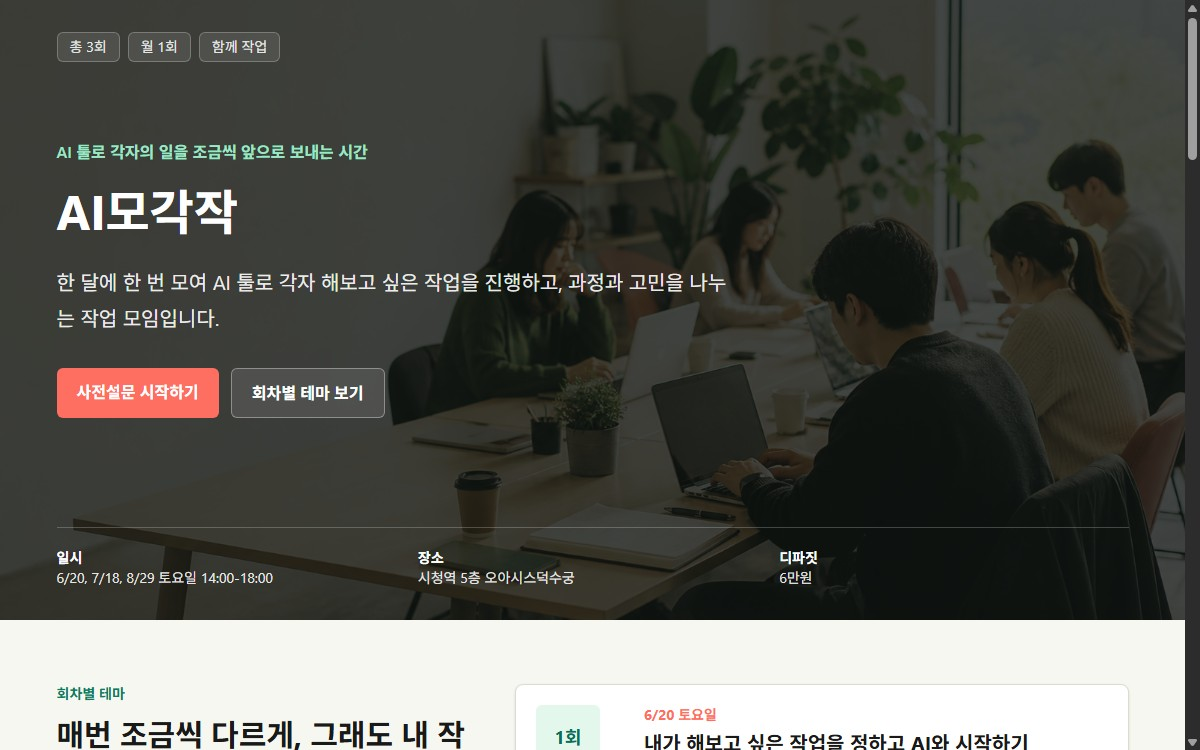
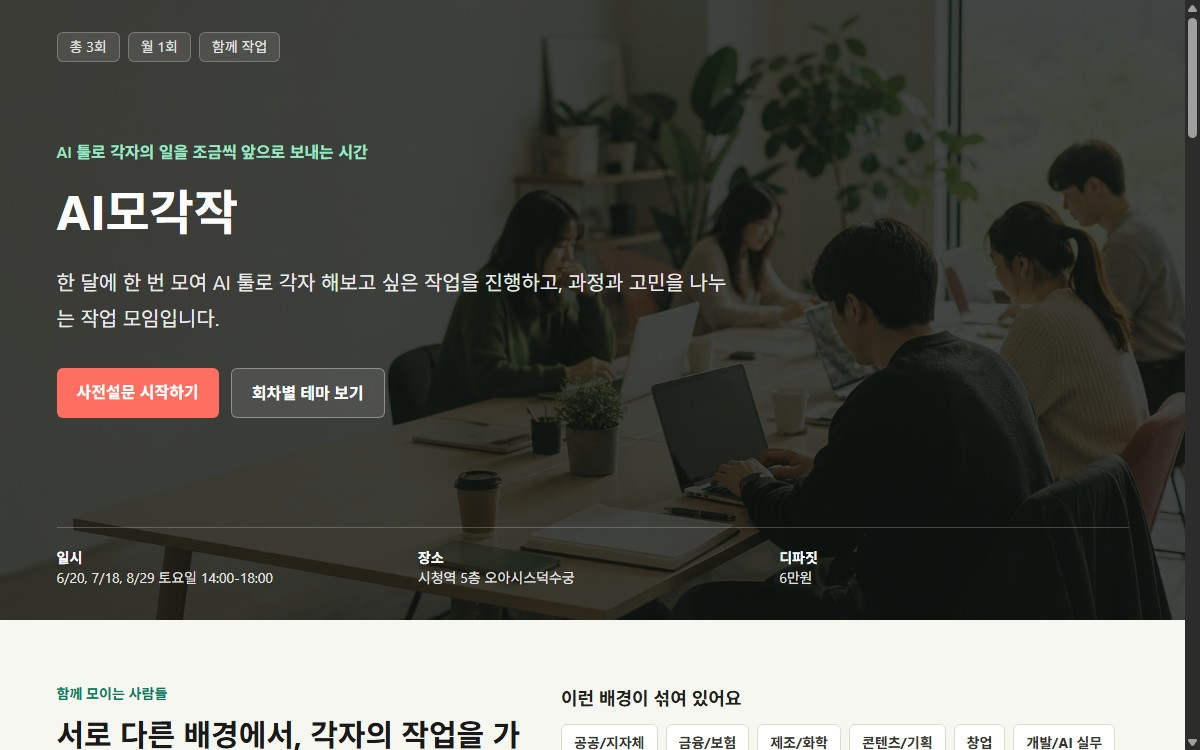
Refine AI Mogakjak member context

Changed region(s): [[0.0308, 0.92, 0.4317, 1.0], [0.4625, 0.92, 0.925, 1.0], [0.9867, 0.184, 1.0, 0.2147]]

diff --git a/app/page.tsx b/app/page.tsx
@@ -4,12 +4,12 @@ const sessions = [
   {
     date: "6/20",
     title: "내가 해보고 싶은 작업을 정하고 AI와 시작하기",
-    body: "막연한 아이디어를 오늘 해볼 수 있는 작업으로 좁히고, AI 툴을 어디에 붙이면 좋을지 함께 찾아봅니다.",
+    body: "막연한 아이디어를 오늘 해볼 수 있는 작업으로 좁히고, 각자의 일과 생활에 AI를 어디에 붙이면 좋을지 함께 찾아봅니다.",
   },
   {
     date: "7/18",
     title: "작업 중 막힌 지점 풀어보기",
-    body: "각자 해본 과정을 나누고, 프롬프트와 도구 선택을 조정하면서 병목을 같이 풀어봅니다.",
+    body: "각자 해본 과정을 나누고, 프롬프트와 도구 선택, 작업 범위, 실행 순서를 조정하면서 병목을 같이 풀어봅니다.",
   },
   {
     date: "8/29",
@@ -23,7 +23,27 @@ const rhythms = [
   "매 시간 10분씩 쉬면서 집중력을 다시 채웁니다.",
   "고민이나 막히는 지점은 바로 공유합니다. 같이 보면 의외로 빨리 풀릴 때가 많습니다.",
   "새로 발견한 툴, 프롬프트, 방식이 있다면 자유롭게 나눕니다.",
+  "서로 다른 업종과 맥락을 짧게 설명하고, 질문은 편하게 주고받습니다.",
   "각자의 작업 속도와 몰입 시간을 존중합니다.",
+];
+
+const participantContexts = [
+  "공공/지자체",
+  "금융/보험",
+  "제조/화학",
+  "콘텐츠/기획",
+  "창업",
+  "개발/AI 실무",
+  "마케팅/영업",
+];
+
+const motivationThemes = [
+  "미루던 AI 작업을 실제로 진척시키기",
+  "반복 업무를 자동화할 실마리 찾기",
+  "개인 프로젝트나 에이전트 고도화하기",
+  "프롬프트와 툴 사용법을 서로 공유하기",
+  "다른 사람들의 활용 방식을 가까이서 보기",
+  "혼자서는 어려운 몰입 환경과 데드라인 만들기",
 ];
 
 export default function Home() {
@@ -94,6 +114,58 @@ export default function Home() {
         </div>
       </section>
 
+      <section className="mx-auto max-w-6xl px-5 py-16 sm:px-8 lg:px-10">
+        <div className="grid gap-10 lg:grid-cols-[0.9fr_1.1fr]">
+          <div>
+            <p className="text-sm font-bold text-[#0c7b61]">
+              함께 모이는 사람들
+            </p>
+            <h2 className="mt-3 text-3xl font-bold leading-tight">
+              서로 다른 배경에서, 각자의 작업을 가져옵니다
+            </h2>
+            <p className="mt-5 text-base leading-8 text-[#4b4b45]">
+              공공, 금융/보험, 제조/화학, 콘텐츠/기획, 창업, 개발/AI 실무 등
+              다양한 맥락의 사람들이 모입니다. 중요한 건 같은 직무가 아니라,
+              각자 미뤄두었던 일을 AI와 함께 실제로 움직여보려는 마음입니다.
+            </p>
+          </div>
+
+          <div className="grid gap-5">
+            <div>
+              <h3 className="text-lg font-bold text-[#20201d]">
+                이런 배경이 섞여 있어요
+              </h3>
+              <div className="mt-3 flex flex-wrap gap-2">
+                {participantContexts.map((context) => (
+                  <span
+                    key={context}
+                    className="rounded-md border border-[#d9ddd0] bg-white px-3 py-2 text-sm font-bold text-[#34342f]"
+                  >
+                    {context}
+                  </span>
+                ))}
+              </div>
+            </div>
+
+            <div>
+              <h3 className="text-lg font-bold text-[#20201d]">
+                이런 마음으로 모였어요
+              </h3>
+              <ul className="mt-4 grid gap-3 sm:grid-cols-2">
+                {motivationThemes.map((theme) => (
+                  <li
+                    key={theme}
+                    className="rounded-md bg-[#f7f7f2] px-3 py-3 text-sm font-semibold leading-6 text-[#3b3b35]"
+                  >
+                    {theme}
+                  </li>
+                ))}
+              </ul>
+            </div>
+          </div>
+        </div>
+      </section>
+
       <section id="themes" className="mx-auto max-w-6xl px-5 py-16 sm:px-8 lg:px-10">
         <div className="grid gap-8 lg:grid-cols-[0.82fr_1.18fr]">
           <div>
@@ -103,8 +175,8 @@ export default function Home() {
             </h2>
             <p className="mt-5 text-base leading-8 text-[#4b4b45]">
               완성된 결과물을 가져오는 모임이 아니라, 하고 싶은 작업을
-              실제로 시도해보는 모임입니다. 서로의 과정과 고민을 보면서 AI를
-              내 일에 붙이는 감각을 함께 키웁니다.
+              실제로 시도해보는 모임입니다. 서로 다른 직장과 커뮤니티 맥락에서
+              나온 고민을 같이 보고, AI를 내 일에 붙이는 감각을 함께 키웁니다.
             </p>
           </div>
 

diff --git a/app/survey-form.tsx b/app/survey-form.tsx
@@ -19,10 +19,12 @@ const tools = [
 
 const goals = [
   "내 작업을 실제로 진척시키기",
+  "업무 자동화 실마리 찾기",
+  "개인 프로젝트 고도화하기",
   "AI 툴을 써보는 감각 익히기",
   "프롬프트 작성법 배우기",
   "막힌 문제를 같이 해결하기",
-  "다른 사람들의 활용 사례 보기",
+  "다른 사람들의 활용 방식 보기",
   "꾸준히 작업할 환경 만들기",
   "기타",
 ];
@@ -31,9 +33,11 @@ const topics = [
   "글쓰기/기획",
   "자료조사/정리",
   "업무 자동화",
+  "플랫폼/에이전트 만들기",
   "디자인/이미지",
+  "PPT/콘텐츠 기획",
   "영상/콘텐츠 제작",
-  "코딩/웹 제작",
+  "코딩/웹/클라우드",
   "공부/학습",
   "아직 잘 모르겠음",
   "기타",
@@ -185,7 +189,7 @@ export default function SurveyForm() {
           maxLength={800}
           name="desiredWork"
           required
-          placeholder="예: 글 초안 만들기, 업무 자동화, 포트폴리오 페이지 만들기"
+          placeholder="예: 반복 업무 자동화, 플랫폼/에이전트 만들기, 자료조사 정리, 콘텐츠/PPT 기획, 이미지 작업, 개발/클라우드 프로젝트"
         />
       </label>
 
@@ -198,7 +202,7 @@ export default function SurveyForm() {
           maxLength={800}
           name="blocker"
           required
-          placeholder="예: 어떤 툴을 써야 할지 모르겠음, 프롬프트가 원하는 대로 안 나옴"
+          placeholder="예: 어떤 툴을 써야 할지 모르겠음, 프롬프트가 원하는 대로 안 나옴, 혼자서는 시작이 잘 안 됨, 범위를 어디까지 잡아야 할지 애매함"
         />
       </label>
 